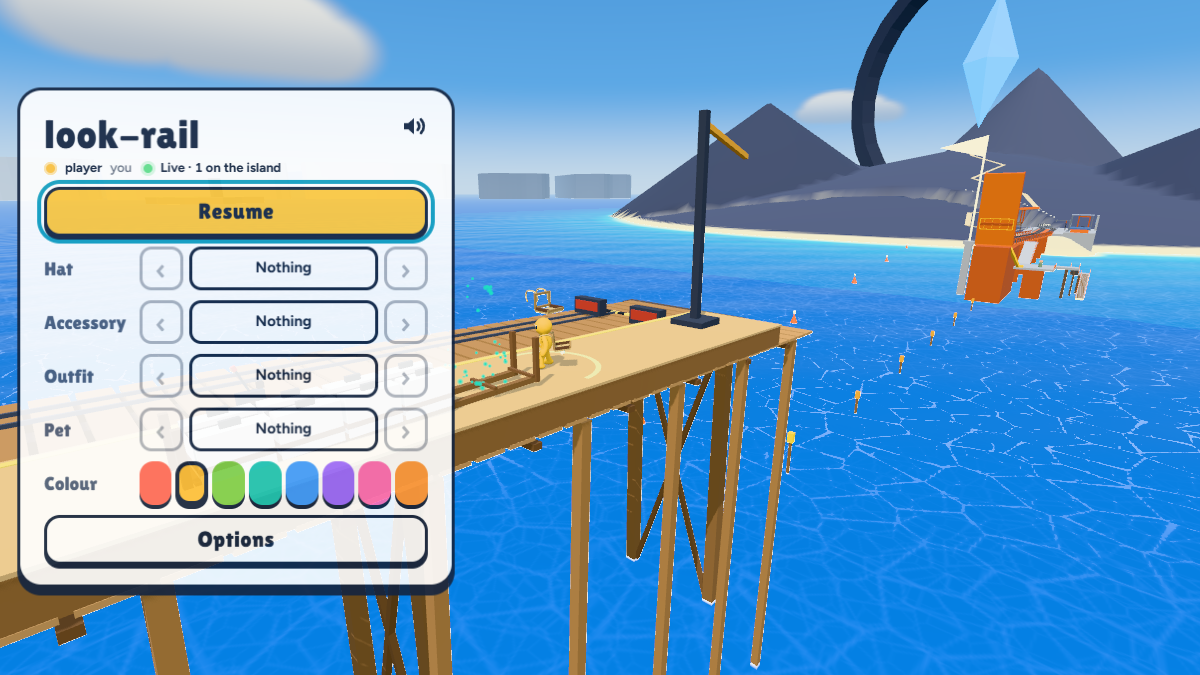
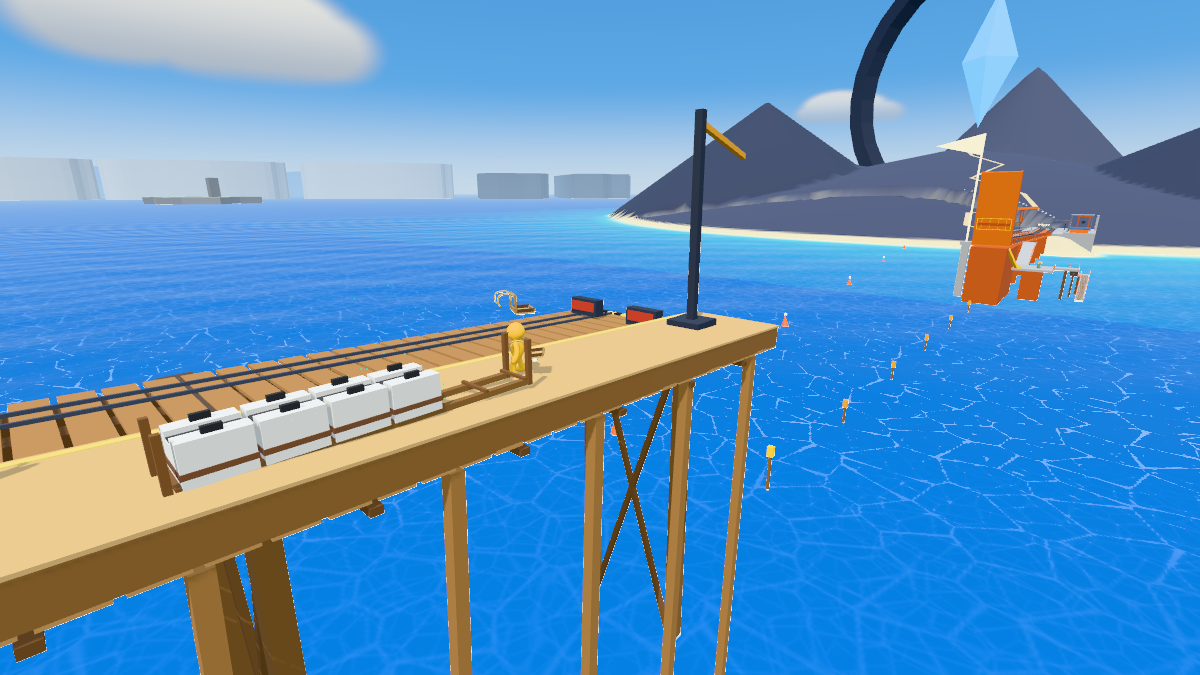
Exercise the production railhead car in carry tests and verify step 3

diff --git a/src/entities/railway/line2-view.ts b/src/entities/railway/line2-view.ts
@@ -2,8 +2,8 @@
 // Q1-Q6 frames, depot racks, route-v2 decks, both gates, the summit switch, Far Head, the boiler and the pier show.
 // Geometry and colliders are rebuilt from accepted construction state; nothing here transfers material.
 import * as THREE from 'three/webgpu';
-import { deckYaw } from './railhead-state.ts';
-import { deckProfile } from './railhead-shape.ts';
+import { createRailheadDeck } from './railhead-state.ts';
+import { besideLine, buildTrack, thud } from './rail-kit.ts';
 import type { RailwayAdapter } from '../../adapters/railway-session.ts';
 import type { RailwayAccepted, RailwayCorrection } from '../../adapters/railway-effects.ts';
 import type { OwnedView } from '../../render/owned-view.ts';
@@ -104,10 +104,9 @@ export async function createRailwayLine2(
   hookShown?: () => void,
   rewardBusy: () => boolean = () => false,
 ) {
-  const [layout, rail, stations, pieces, land, plans, tech, shapes, flatMod, sounds, look, kit, props, carry] =
+  const [layout, stations, pieces, land, plans, tech, shapes, flatMod, sounds, look, kit, props, carry] =
     await Promise.all([
       import('../../place/layout.ts'),
-      import('./rail-kit.ts'),
       import('./stations.ts'),
       import('../../place/pieces.ts'),
       import('../../place/land.ts'),
@@ -284,7 +283,7 @@ export async function createRailwayLine2(
   }
 
   // ---------------------------------------------------------------- the quarry line, its frames and the depot rack
-  const track = rail.buildTrack(quarry, (_k, kind, x, y, z) => rail.thud(machine, kind, x, y, z), owner, 'panels');
+  const track = buildTrack(quarry, (_k, kind, x, y, z) => thud(machine, kind, x, y, z), owner, 'panels');
   const frames = quarry.stations
     .slice(0, LINE2_STATIONS.length)
     .map((spec) => stations.buildStation(spec, stations.frameBesideLine(spec, quarry.line, quarry.dir), owner));
@@ -357,7 +356,7 @@ export async function createRailwayLine2(
       return out.set(d.x, d.y + 0.16, d.z);
     }
     if (LINE2_STATIONS[k]!.feed === 'train') {
-      const p = rail.besideLine(quarry.line, LINE2_STATIONS[k]!.fromCm / 100 - 8, quarry.stations[k]!.side * 7.5);
+      const p = besideLine(quarry.line, LINE2_STATIONS[k]!.fromCm / 100 - 8, quarry.stations[k]!.side * 7.5);
       out.set(p.x, 0, p.z);
     }
     out.y = land.H(out.x, out.z) + 0.16; // the bearer tops, shared by unload flights and pickup targets
@@ -594,7 +593,7 @@ export async function createRailwayLine2(
   const glideDevice = createRailwayGlideDevice(adapter, owner, { land, shapes, partMat, glow, youGot });
   const farHead = createRailwayFarHead(owner, {
     layout,
-    rail,
+    rail: { besideLine },
     land,
     flat,
     sounds,
@@ -613,7 +612,7 @@ export async function createRailwayLine2(
   );
   const pier = createRailwayPier(owner, {
     layout,
-    rail,
+    rail: { besideLine },
     sounds,
     adapter,
     track,
@@ -709,7 +708,7 @@ export async function createRailwayLine2(
     panelState,
     () => visualHead,
     (end, unit) => {
-      const p = rail.besideLine(quarry.line, end, 0);
+      const p = besideLine(quarry.line, end, 0);
       clank(p.x, p.z);
       // Contact dust once per stock unit, as before the pairs: smaller commits add no smoke.
       if (unit) pieces.dustRing(p.x, layout.railY(quarry.line, end) + 0.1, p.z, 4, 0.5, 0.12);
@@ -1028,23 +1027,8 @@ export async function createRailwayLine2(
     }
     if (slabT < 0) slab.position.y = down ? slabDown : slabUp;
   }
-  let deckDrive: (() => void) | undefined;
-  const profile = deckProfile();
-  const car = rail.makeCar(profile.spec, new THREE.Group(), () => deckDrive?.(), { shapes: [profile.surface] }, owner);
-  car.platform.id = 'railway:railhead';
-  car.platform.shared = true;
-  car.platform.topAt = profile.topAt;
-  car.yaw = deckYaw;
-  rail.snapCar(car);
-  car.speedLimit = 7.5;
   const api = {
-    railheadDeck: {
-      car,
-      snap: () => rail.snapCar(car),
-      drive(fn: () => void) {
-        deckDrive = fn;
-      },
-    },
+    railheadDeck: createRailheadDeck(owner),
     /** Line two owns the machine once the forge is lit and the turn has played. */
     working,
     /** The boiler's haul pace (before the controller) and its rope (after Buddy's final pose). */

diff --git a/test/platforms-carry.test.ts b/test/platforms-carry.test.ts
@@ -6,11 +6,8 @@ import '../dev/sim/hooks.ts';
 import test from 'node:test';
 import assert from 'node:assert/strict';
 import { FIXED, PLAYER_R } from '../src/constants.ts';
-const { Group } = await import('three/webgpu');
 const { createOwnedView } = await import('../src/render/owned-view.ts');
-const { makeCar, snapCar } = await import('../src/entities/railway/car.ts');
-const { deckProfile } = await import('../src/entities/railway/railhead-shape.ts');
-const { deckU, deckYaw, placeDeck } = await import('../src/entities/railway/railhead-state.ts');
+const { createRailheadDeck, deckU, placeDeck } = await import('../src/entities/railway/railhead-state.ts');
 const { haulU } = await import('../src/sim/railway-ring-haul.ts');
 const physics = await import('../src/physics/engine.ts');
 const { makePlayerBody } = await import('../src/physics/physics.ts');
@@ -62,27 +59,17 @@ async function traveller() {
   await physics.physicsReady;
   const wall = softWall.at;
   softWall.at = Infinity;
-  const owner = createOwnedView(),
-    profile = deckProfile();
+  const owner = createOwnedView();
   let goal = 120,
     opening = true;
-  const car = makeCar(
-    profile.spec,
-    new Group(),
-    () => {
-      placeDeck(deck, goal, opening, player.body, player.coyote, () => {
-        throw Error('unexpected initial overlap');
-      });
-      opening = false;
-    },
-    { shapes: [profile.surface] },
-    owner,
-  );
-  const deck = { car, snap: () => snapCar(car), drive: () => {} };
-  car.platform.topAt = profile.topAt;
-  car.speedLimit = 7.5;
-  car.yaw = deckYaw;
-  deck.snap();
+  const deck = createRailheadDeck(owner),
+    { car } = deck;
+  deck.drive(() => {
+    placeDeck(deck, goal, opening, player.body, player.coyote, () => {
+      throw Error('unexpected initial overlap');
+    });
+    opening = false;
+  });
   const rider = makePlayerBody(false);
   owner.addBody(rider);
   const point = (z: number, y: number, drawn = false) =>
@@ -95,7 +82,7 @@ async function traveller() {
       goal = u;
     },
     board(z = 0, down = 0) {
-      const pos = point(z, profile.topAt(0, z) + PLAYER_R - down);
+      const pos = point(z, car.platform.topAt!(0, z, 0) + PLAYER_R - down);
       physics.teleport(rider, pos.x, pos.y, pos.z);
       rider.velocity.set(0, 0, 0);
       player.body = rider;

diff --git a/src/entities/railway/railhead-state.ts b/src/entities/railway/railhead-state.ts
@@ -1,3 +1,5 @@
+import { Group } from 'three/webgpu';
+import type { OwnedView } from '../../render/owned-view.ts';
 import { FIXED, PLAYER_R } from '../../constants.ts';
 import { carry } from '../../physics/platforms.ts';
 import { me } from '../../player/state.ts';
@@ -5,8 +7,8 @@ import type { Body } from '../../physics/engine.ts';
 import { siteExit } from '../../place/site-clearance.ts';
 import type { outOf as moveOutside } from '../../place/sites.ts';
 import { RING_S, line2World, line2Y } from './line2-path.ts';
-import { BENTS, headU, PLATFORM, SIDE } from './railhead-shape.ts';
-import type { Car } from './car.ts';
+import { BENTS, deckProfile, headU, PLATFORM, SIDE } from './railhead-shape.ts';
+import { makeCar, snapCar, type Car } from './car.ts';
 
 export type RailheadDeck = { car: Car; snap(): void; drive(fn: () => void): void };
 const sideMid = (SIDE.lat0 + SIDE.lat1) / 2;
@@ -19,7 +21,25 @@ const sin = (end.x - start.x) / length,
 export const deckU = (pos: { x: number; z: number }) => initialU + (pos.x - start.x) * sin + (pos.z - start.z) * cos;
 const startY = line2Y(RING_S + initialU - PLATFORM.len / 2);
 export const railheadDrawn = { u: initialU };
-export const deckYaw = Math.atan2(sin, cos);
+const deckYaw = Math.atan2(sin, cos);
+export function createRailheadDeck(owner: OwnedView): RailheadDeck {
+  let drive: (() => void) | undefined;
+  const profile = deckProfile();
+  const car = makeCar(profile.spec, new Group(), () => drive?.(), { shapes: [profile.surface] }, owner);
+  car.platform.id = 'railway:railhead';
+  car.platform.shared = true;
+  car.platform.topAt = profile.topAt;
+  car.speedLimit = 7.5;
+  car.yaw = deckYaw;
+  snapCar(car);
+  return {
+    car,
+    snap: () => snapCar(car),
+    drive(fn) {
+      drive = fn;
+    },
+  };
+}
 const idleOffsets = new WeakMap<Car, { body: Body; x: number; z: number }>();
 export function placeDeck(
   deck: RailheadDeck,

diff --git a/src/entities/railway/pier-view.ts b/src/entities/railway/pier-view.ts
@@ -20,7 +20,7 @@ export const PIER_CUT = { at: 3.5, hold: 30, bare: 3 } as const;
 
 type Deps = {
   layout: typeof import('../../place/layout.ts');
-  rail: typeof import('./rail-kit.ts');
+  rail: Pick<typeof import('./rail-kit.ts'), 'besideLine'>;
   sounds: typeof import('../../render/fanfare.ts');
   adapter: RailwayAdapter;
   /** Line 2's track, whose old merge the relay retires. */

diff --git a/src/entities/railway/far-head-view.ts b/src/entities/railway/far-head-view.ts
@@ -18,7 +18,7 @@ const CALL = { hold: 30, bare: 3 } as const;
 
 type Deps = {
   layout: typeof import('../../place/layout.ts');
-  rail: typeof import('./rail-kit.ts');
+  rail: Pick<typeof import('./rail-kit.ts'), 'besideLine'>;
   land: typeof import('../../place/land.ts');
   flat: (typeof import('../../render/flat.ts'))['flat'];
   sounds: typeof import('../../render/fanfare.ts');

diff --git a/docs/plans/railhead-traveller.md b/docs/plans/railhead-traveller.md
@@ -1,4 +1,4 @@
-> **Status:** Steps 1–2 shipped in #1841 as v46; Checkpoint A is verified below. Step 3 is not ready to ship: the production car handoff stays inside the five-importer budget, but constructing another car directly in the carry test makes six. The registry also forbids extending the public API of `car.ts`. Steps 4–5 are outstanding. Design base:
+> **Status:** Steps 1–2 shipped in #1841 as v46; Checkpoint A is verified below. Step 3 is built on the implementation branch; independent review is pending. Steps 4–5 are outstanding. Design base:
 > `origin/main` at `35e1c3431`. Replaces
 > steps 2 and 4 of [gap-readability](gap-readability.md) (the railhead's move), which were built on branch
 > `worktree-agent-af55e2f2172764ff8` (tag `archive/worktree/railhead-traveller`, tip `9b9845fbb`) and failed three
@@ -198,7 +198,7 @@ Rows are from `npm run models` (mode withCodex, 14 November).
       waits out each haul). Independent review before merge (sim, world, server): a fresh Codex
       review job, gpt-6-astra, a failing test per suspected defect. Code review before shipping: Codex review job on
       the committed branch, gpt-6-astra high.
-- [ ] **3. The deck is a car. Tier: view (physics, Owner). Row: player-visible implementation, implementer agent,
+- [x] **3. The deck is a car. Tier: view (physics, Owner). Row: player-visible implementation, implementer agent,
       fable medium.** Edit `line2-view.ts` (build and return `railheadDeck`), `view.ts`, `works-live.ts`,
       `railhead-view.ts` (take the deck; `drive`; delete `plat{k}` and `slide`), `railhead-shape.ts` (drop `SLIDE`,
       `slide`; add `leanClock`), new `railhead-state.ts`. Lower `railhead-view.ts`'s count in
@@ -212,6 +212,7 @@ Rows are from `npm run models` (mode withCodex, 14 November).
       - `a correction past the speed limit relocates deck and rider together`
       Verify: the test; `npm run lint` and `npm run registry` (the `car.ts#makeCar` importer count stays 5: measured
       on this base with the call added in `line2-view.ts`); a `/look` still at ring stage `deck-laid` (`railwayAtRing`), standing on the platform at rest.
+      As built: Line 2 and the carry test both use `createRailheadDeck` in `railhead-state.ts`. Line 2 no longer acquires the entire rail kit; `makeCar` stays at five importers, and `buildMachine` falls from three to two. All five carry cases passed. Menu-closed WebGPU stills with the rider aboard: [rest](../world/railhead-deck-car/rest.png) (u 120.00 m) and [haul](../world/railhead-deck-car/haul.png) (u 127.17 m).
 - [ ] **4. Prompts, spans and the lever follow the row. Tier: view. Row: implementer agent, fable medium.**
       `railhead-view.ts`: `settled()` is `haulSettled(row, clock)`; spans forced at `moved + after`; `halts-view.ts`
       `placeRing` reads `railheadDrawn.u`. Tests in `test/railway-r4b-views.test.ts`: `prompts wait until the haul has
